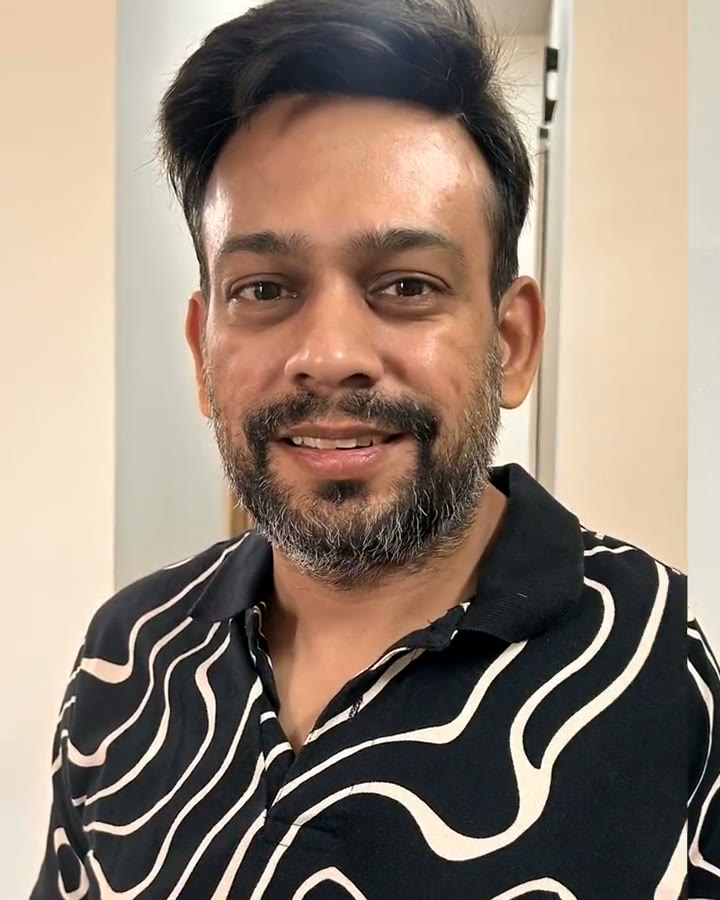
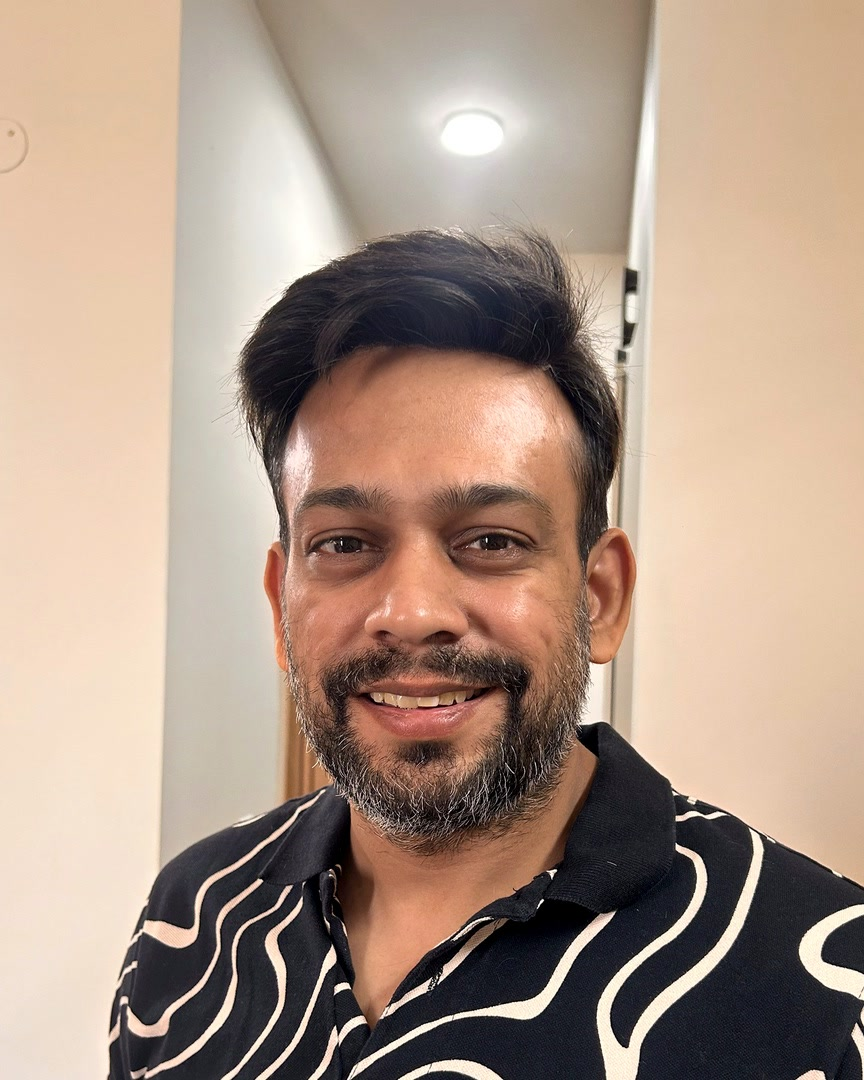
feat(site): Nitin's matched pair on the home page; Rishabh as co-founder
Owner's choices: one of Rishabh's two before-and-after pairs on the home
page becomes Nitin's, frontal in both, from two clips of the shoot (MVI_8726
and the technician's mirror in MVI_8794, turned back the right way round),
aligned by the eyes and matched in tone, captioned in his own words; the
founder film's poster is the shoot's still of Rishabh after his fit; the
note is signed Co-founder. The films carry no sound, so nothing says so.

diff --git a/site/src/content/site/media.ts b/site/src/content/site/media.ts
@@ -50,7 +50,7 @@ export const gurgaonHeroFootage = {
   tag: "Placeholder footage",
 } satisfies HeroFootage;
 
-/** A film that plays when it is tapped, with its sound; what is said in it is written into the picture. */
+/** A film that plays when it is tapped; what is said in it is written into the picture. */
 export interface Film {
   readonly video: string;
   /** A frame of it, 4:5. */
@@ -111,9 +111,11 @@ export const resultPairs = {
       caption: "Life-changing.",
     },
     {
-      before: { file: "result-1-before.jpg", alt: "A man with thinning hair on top, before the fit" },
-      after: { file: "result-1-after.jpg", alt: "The same man smiling, with a full head of hair" },
-      caption: "Ten years younger.",
+      // Nitin, framed alike from two clips of the shoot: facing the camera before, and in the technician's mirror
+      // after, turned back the right way round.
+      before: { file: "result-1-before.jpg", alt: "A man thinning on top, facing the camera, before the fit" },
+      after: { file: "result-1-after.jpg", alt: "The same man after the fit, a full head of hair, smiling" },
+      caption: "It looks very natural.",
     },
     {
       before: { file: "result-3-before.jpg", alt: "The back of the head before the fit, bald at the crown" },
@@ -181,7 +183,7 @@ export const founderNote = {
     "That’s why I started Mane Man. A more private, straightforward way to get your hair back, on your terms.",
   ],
   name: "Rishabh Gupta",
-  signature: "Founder, Mane Man",
+  signature: "Co-founder, Mane Man",
   /** Unfolds the note past its first paragraph (ADR 0263); every word stays in the page. */
   more: "Read the full note",
 };

diff --git a/docs/decisions/0321-the-gurgaon-page.md b/docs/decisions/0321-the-gurgaon-page.md
@@ -33,7 +33,7 @@ each shown once it is in.
      and the film sits beside the note. His note keeps every word.
    - **A film plays only when it is tapped.** Its poster loads as it nears the screen, whole, with Play beneath it,
      and the film's file not before the tap, so a 4G phone's first paint is the hero's alone. The tap puts the film in
-     the poster's place with the browser's own controls, plays it with its sound, pauses any other, and moves focus to
+     the poster's place with the browser's own controls, plays it, pauses any other, and moves focus to
      it. The words said are written into each film, so there is no caption track to switch on beside them.
 3. **Attribution goes with the visitor,** as on every page (ADR 0288): the landing is recorded on arrival, the links stay
    on the site under the visitor's cookie, and WhatsApp's message carries the visitor's reference.
